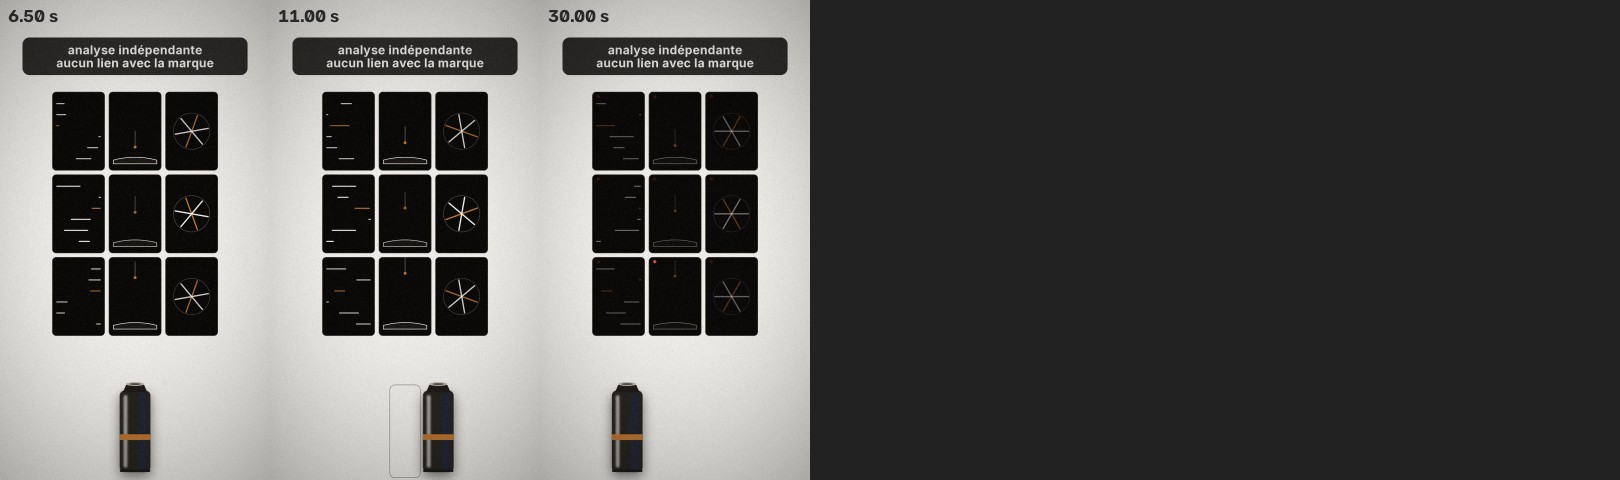
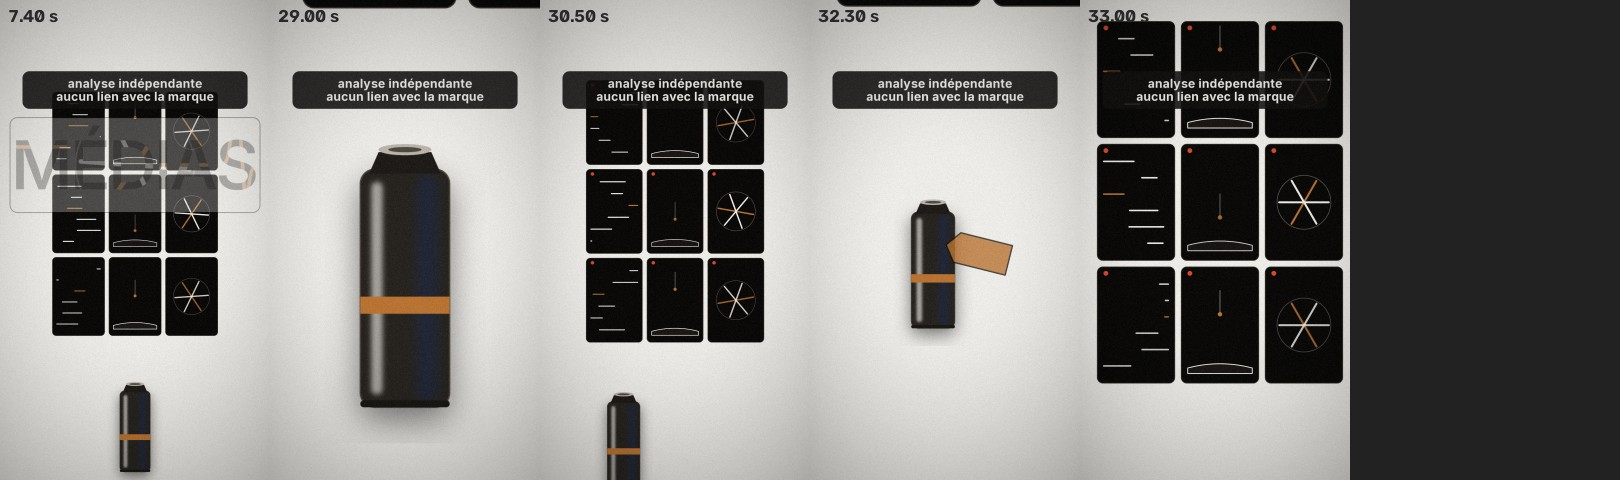
Red Bull tentative 3 : corrections V2-1, V2-5, V2-7 (scene.py, reel.json)

diff --git a/sorties/2026-10-27-redbull-media/atelier/scene.py b/sorties/2026-10-27-redbull-media/atelier/scene.py
@@ -38,8 +38,11 @@ EVTS = [
     (T(75) - .2, T(75) + .05, 1.8, -390, 0, expo(7)),             # adrénaline
     (T(77) - .2, T(77) + .05, 1.8, -390, 570, expo(7)),           # frisson
     (T(80) - .2, T(80) + .05, 1.8, 390, 0, expo(7)),              # dépassement de soi
-    (T(82), T(83) + 1.4, .58, 0, 250, sortie(3)),                 # la canette revient, minuscule
-    (T(83) + 1.5, T(98) - .1, .64, 0, 290, doux),
+    (T(83) - .25, T(83) + .15, 1.7, -330, CAN_Y - 90, expo(7)),   # « la canette que tu achètes » : la canette seule, en gros plan
+    (T(87) - .1, T(87) + .4, .62, 0, 250, sortie(3)),             # « au supermarché » : recul sur le mur
+    (T(89), T(93) - .3, .72, 0, 200, doux),                       # « c'est juste le » : dérive lente sur le mur
+    (T(93) - .3, T(94) + .2, 1.6, -300, CAN_Y - 50, expo(7)),     # « produit dérivé » : canette + étiquette de prix en gros plan
+    (T(95) - .05, T(96) + .3, .8, 0, 120, sortie(3)),             # « de leurs vidéos » : retour sur le mur
     (T(98), T(108), .9, 0, 0, doux),
     (T(121) + .25, T(121) + .4, 1.5, 0, CAN_Y, tenir),            # boucle : retour au cadrage du début
 ]
@@ -136,7 +139,7 @@ comp.ajouter(Forme(ellipse(78, 12), remplissage='#4C4842', parent=can, position=
 comp.ajouter(Forme(rect(210, 16, 8), remplissage='#1A1814', parent=can, position=(0, 272)))
 # étiquette « produit dérivé » (forme pure, sans texte), seulement quand elle est tombée du mur
 comp.ajouter(Forme(points([(-70, -40), (70, -40), (70, 40), (-70, 40), (-100, 0)], True), remplissage=CU, trait=INK, epaisseur=3, parent=monde,
-                   position=(-330 + 105, CAN_Y - 70), rotation=14, echelle=.55, opacite=lambda t: val(K((T(94), 0, lin), (T(94) + .25, 1)), t) * (0 if t > T(121) else 1)))
+                   position=(-330 + 125, CAN_Y - 40), rotation=14, echelle=.95, opacite=lambda t: val(K((T(94), 0, lin), (T(94) + .25, 1)), t) * (0 if t > T(121) else 1)))
 
 
 # « ne te vendent même pas de la taurine » : la canette seule, barrée d'un trait de cuivre qui se dessine
@@ -195,7 +198,7 @@ comp.ajouter(Forme(rect(1400, 8), remplissage=PAPER, position=(540, 1000), opaci
 comp.ajouter(Solide(INK, opacite=lambda t: val(K((T(121) + .1, 0, lin), (T(121) + .3, 1, lin), (T(122) + .1, 1, lin), (T(122) + .6, 0)), t)))
 # mention de charte (marque réelle analysée) : discrète, en haut, toute la durée
 mention_op = lambda t: 0 if (t > T(121) + .1 and t < T(121) + .9) else 1
-comp.ajouter(Forme(rect(900, 150, 28), remplissage=INK, position=(540, 225), opacite=lambda t: .88 * mention_op(t)))
-comp.ajouter(Texte('analyse indépendante', police='Inter', taille=48, graisse=700, interlettrage=.02, couleur_=PAPER, position=(540, 200), opacite=mention_op))
-comp.ajouter(Texte('aucun lien avec la marque', police='Inter', taille=48, graisse=700, interlettrage=.02, couleur_=PAPER, position=(540, 252), opacite=mention_op))
+comp.ajouter(Forme(rect(900, 150, 28), remplissage=INK, position=(540, 360), opacite=lambda t: .88 * mention_op(t)))
+comp.ajouter(Texte('analyse indépendante', police='Inter', taille=48, graisse=700, interlettrage=.02, couleur_=PAPER, position=(540, 334), opacite=mention_op))
+comp.ajouter(Texte('aucun lien avec la marque', police='Inter', taille=48, graisse=700, interlettrage=.02, couleur_=PAPER, position=(540, 386), opacite=mention_op))
 comp.ajouter(Reglage(effets=[Grain(intensite=.035), Vignette(force=.28)]))
